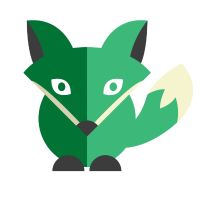
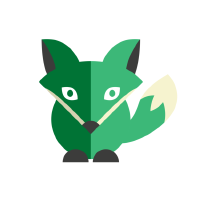
It adds wing now when the fox can fly

Changed region(s): [[0.12, 0.09, 0.99, 0.87]]

diff --git a/Week07/Day05/foxclub/src/main/resources/templates/index.html b/Week07/Day05/foxclub/src/main/resources/templates/index.html
@@ -6,14 +6,20 @@
     <link rel="stylesheet" th:href="@{/style.css}"/>
 </head>
 <h1>Information</h1>
-<p class="textform">asdadsadasdsa</p>
 <body>
-        <ul>
-            <li><a th:href="@{'/'}">Information</a></li>
-            <li><a th:href="@{'/nutritionstore'}">Nutrition Store</a></li>
-            <li><a th:href="@{'/trickcenter'}">Trick Center</a></li>
-        </ul>
-<img class="imageclass" th:src="@{greenfox.png}"/>
+<ul>
+    <li><a th:href="@{'/'}">Information</a></li>
+    <li><a th:href="@{'/nutritionstore'}">Nutrition Store</a></li>
+    <li><a th:href="@{'/trickcenter'}">Trick Center</a></li>
+</ul>
+<img class="imgB1" th:src="@{greenfox.png}"/>
+<p th:each="trick : ${fox.tricks}">
+<div th:if="${trick} == 'Fly'"><img class="imgA1" th:src="@{wings.png}"/></div>
+<div th:unless="${trick} == 'Fly'"></div>
+<div th:if="${trick} == 'Fly'"><img class="imgA1" th:src="@{wings.png}"/></div>
+<div th:unless="${trick} == 'Fly'"></div>
+</p>
+
 
 <p th:text="'This is ' + ${fox.name} + '. Currently living on '
 + ${fox.food} + ' and ' + ${fox.drink} + '. He knows ' + ${fox.getTricksSize()} + ' tricks.'"/>

diff --git a/Week07/Day05/foxclub/src/main/resources/templates/nutritionstore.html b/Week07/Day05/foxclub/src/main/resources/templates/nutritionstore.html
@@ -3,6 +3,7 @@
 <head>
     <meta charset="UTF-8"/>
     <title>Foxy</title>
+    <link rel="stylesheet" th:href="@{/style.css}"/>
 </head>
 <body>
 <h1>Nutrition Store</h1>
@@ -11,7 +12,11 @@
     <li><a th:href="@{'/nutritionstore'}">Nutrition Store</a></li>
     <li><a th:href="@{'/trickcenter'}">Trick Center</a></li>
 </ul>
-<img th:src="@{greenfox.png}"/>
+<img class="imgB1" th:src="@{greenfox.png}"/>
+<p th:each="trick : ${fox.tricks}">
+<div th:if="${trick} == 'Fly'"><img class="imgA1" th:src="@{wings.png}"/></div>
+<div th:unless="${trick} == 'Fly'"></div>
+</p>
 <h3>Please ask for some nutrition</h3>
 <form action="/addnutrition">
     <tr>

diff --git a/Week07/Day05/foxclub/src/main/resources/templates/trickcenter.html b/Week07/Day05/foxclub/src/main/resources/templates/trickcenter.html
@@ -3,6 +3,7 @@
 <head>
     <meta charset="UTF-8"/>
     <title>Foxy</title>
+    <link rel="stylesheet" th:href="@{/style.css}"/>
 </head>
 <body>
 <h1>Trick Center</h1>
@@ -11,7 +12,11 @@
     <li><a th:href="@{'/nutritionstore'}">Nutrition Store</a></li>
     <li><a th:href="@{'/trickcenter'}">Trick Center</a></li>
 </ul>
-<img th:src="@{greenfox.png}"/>
+<img class="imgB1" th:src="@{greenfox.png}"/>
+<p th:each="trick : ${fox.tricks}">
+<div th:if="${trick} == 'Fly'"><img class="imgA1" th:src="@{wings.png}"/></div>
+<div th:unless="${trick} == 'Fly'"></div>
+</p>
 <h3>Add some tricks to learn</h3>
 <form action="/addtrick">
     <tr>

diff --git a/Week07/Day05/foxclub/src/main/resources/static/style.css b/Week07/Day05/foxclub/src/main/resources/static/style.css
@@ -1,0 +1,18 @@
+img{
+    position: absolute;
+    top: 0px;
+    left: 555px;
+}
+
+.textform{
+
+    font-weight: bold;
+    font-size: large;
+}
+
+.imgA1 {
+    z-index: 0;
+}
+.imgB1 {
+    z-index: 1;
+}

diff --git a/Week07/Day05/foxclub/src/main/java/com/foxclub/controller/MainController.java b/Week07/Day05/foxclub/src/main/java/com/foxclub/controller/MainController.java
@@ -80,6 +80,7 @@ public class MainController {
       trickList.delete(trick);
       return "redirect:";
     }
+
   }
 
 
